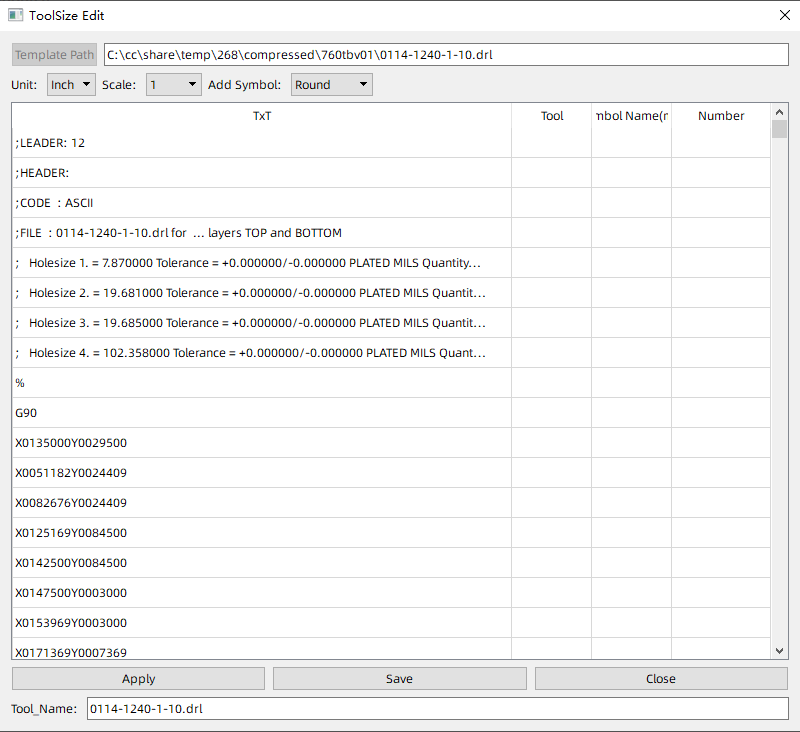
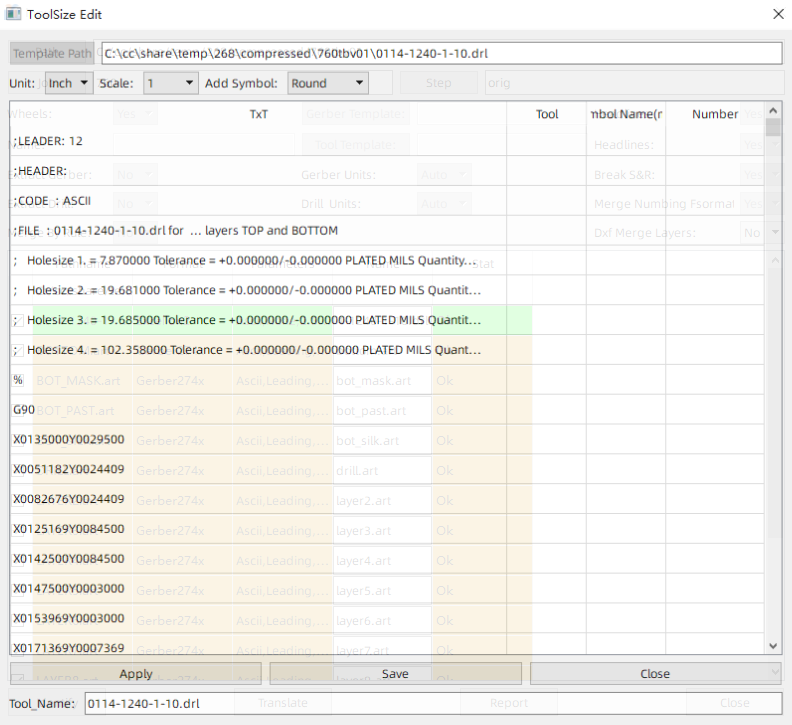
zzr tool_size_edit_window_standard.png

diff --git a/config_ep/page/page_tool_size_edit.py b/config_ep/page/page_tool_size_edit.py
@@ -20,13 +20,14 @@ class PageToolSizeEdit(object):
 
 
     def is_right(self):
+        self.engineering_input_tool_size_edit_window.set_focus()  # 激活窗口
         tool_size_edit_window_pic = self.engineering_input_tool_size_edit_window.capture_as_image()  # 截图
         tool_size_edit_window_pic.save(r'C:\cc\share\temp\tool_size_edit_window.png')  # 保存到硬盘
         # 显示图像
         # tool_size_edit_window_pic.show()  # PIL方式显示图像
         img = cv2.imread(r'C:\cc\share\temp\tool_size_edit_window.png')
         # img_cut = img[249:331, 46:137]  # 后面的是水平方向，异常时，字体过大时
-        img_cut = img[0:732, 8:808]  # 后面的是水平方向
+        img_cut = img[3:728, 12:804]  # 后面的是水平方向
         cv2.imwrite(r"C:\cc\share\temp\tool_size_edit_window_cut.png", img_cut)
         cv2.waitKey(0)
         # 加载两张图片
